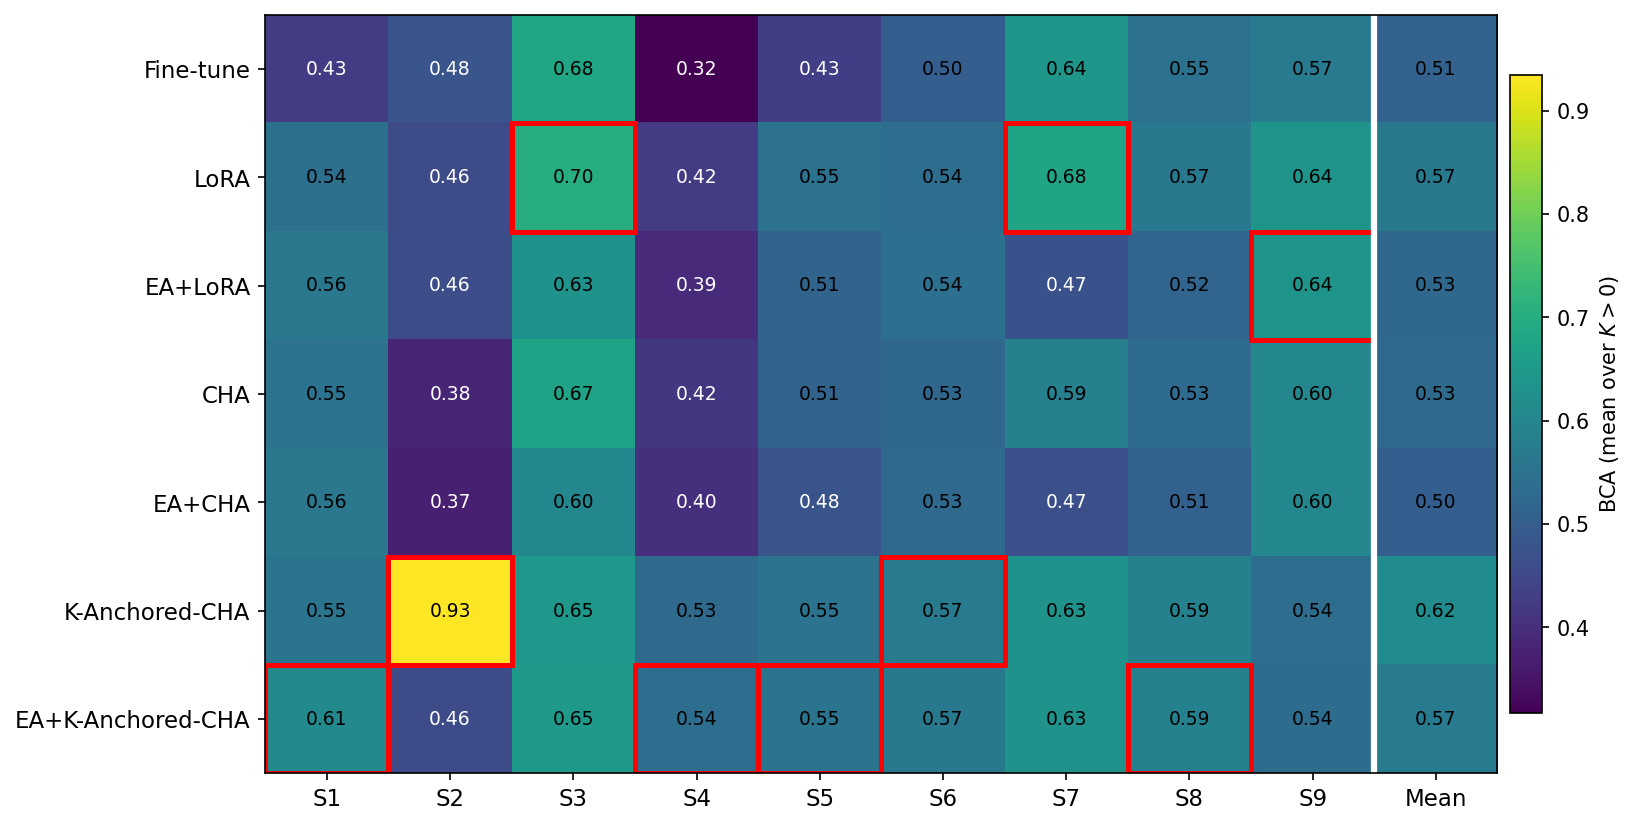
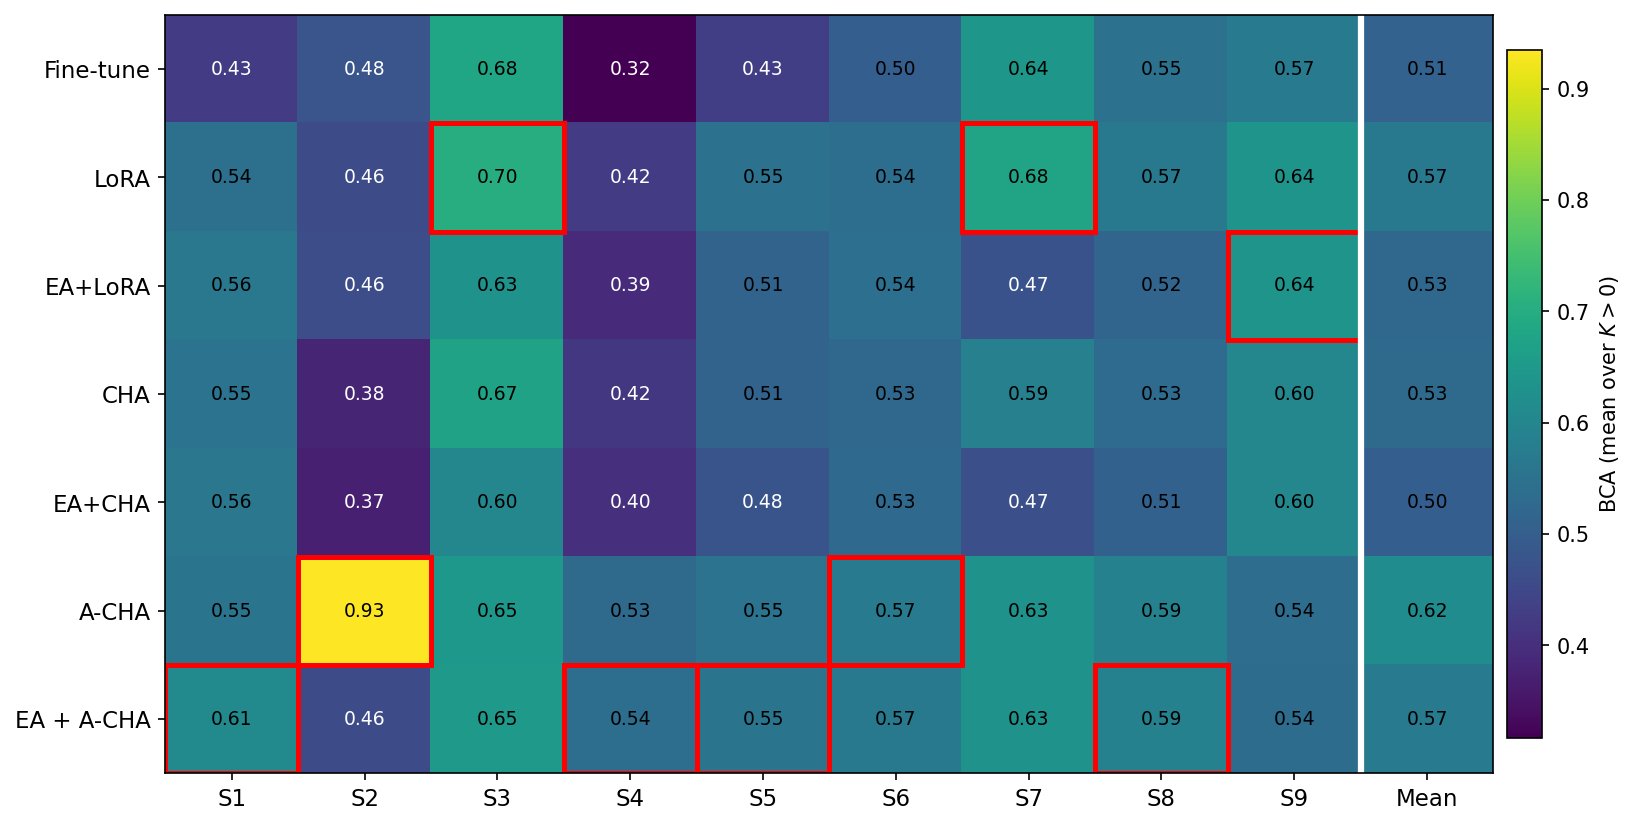
Label edits on figures

diff --git a/scripts/plot_per_subject.py b/scripts/plot_per_subject.py
@@ -17,8 +17,8 @@ FOUNDATION = {"neurogpt", "mirepnet", "labram", "cbramod"}
 
 ROWS = [("Fine-tune", "finetune"), ("LoRA", "lora"), ("EA+LoRA", "ea_lora"),
         ("CHA", "cld"), ("EA+CHA", "ea_cld"),
-        ("K-Anchored-CHA", "kadaptive_anchored_cld"),
-        ("EA+K-Anchored-CHA", "ea_kadaptive_anchored_cld")]
+        ("A-CHA", "kadaptive_anchored_cld"),
+        ("EA + A-CHA", "ea_kadaptive_anchored_cld")]
 KADAPT = {"kadaptive_anchored_cld", "ea_kadaptive_anchored_cld"}
 
 